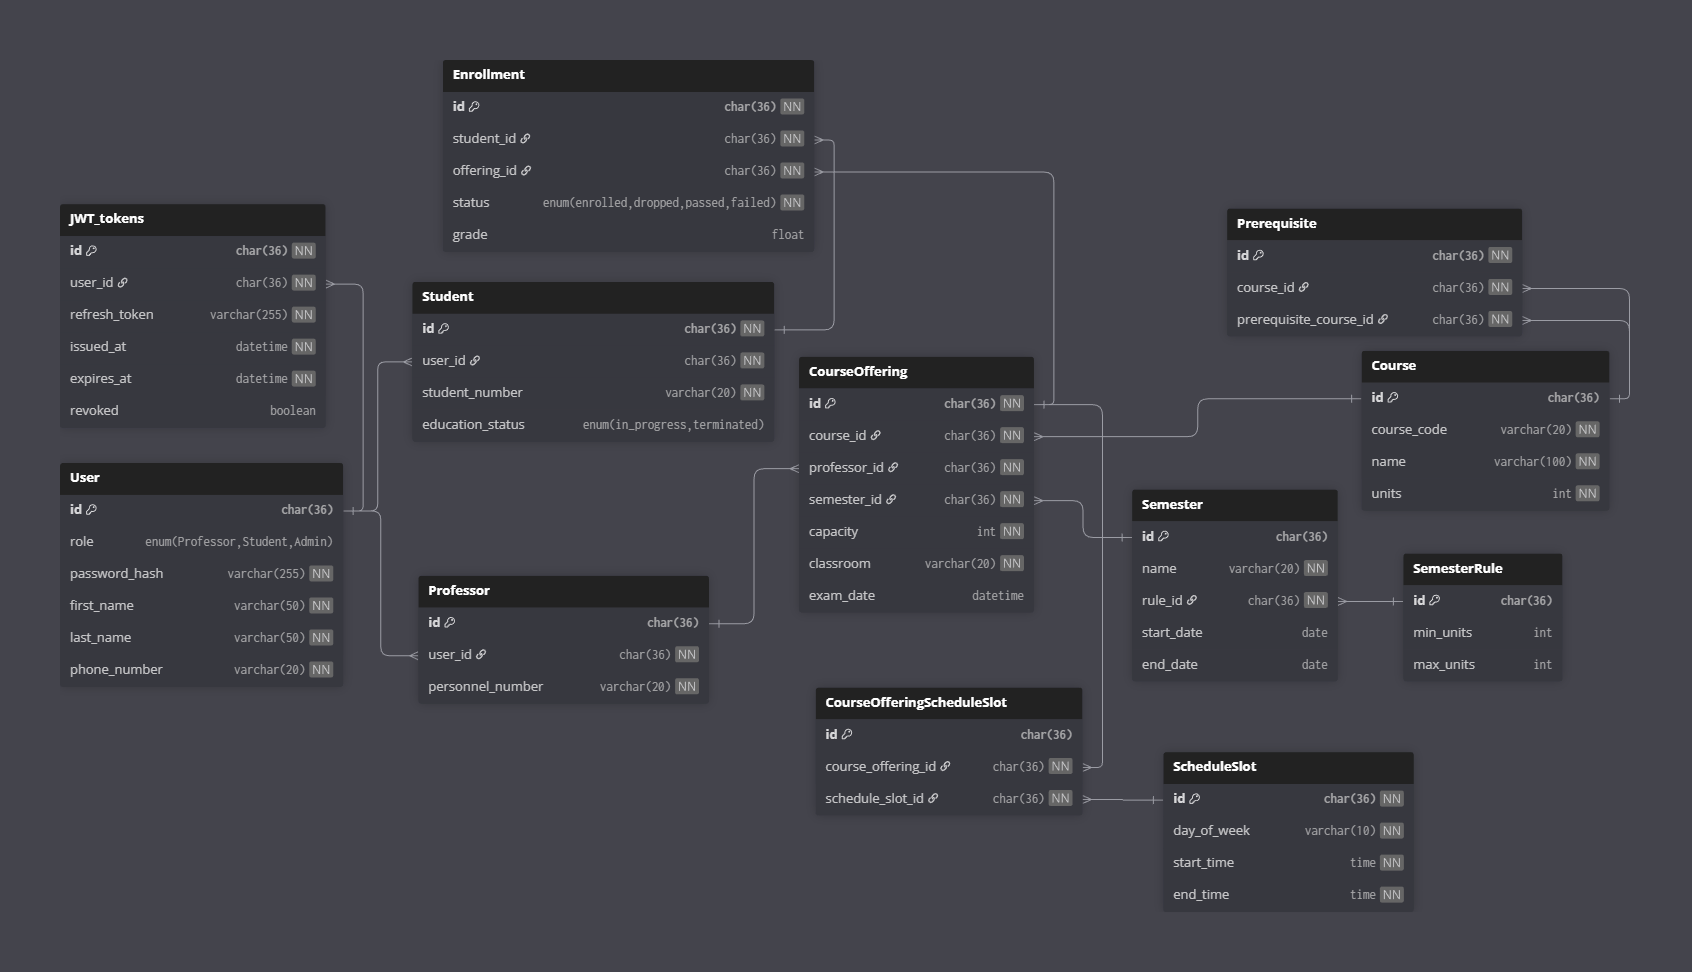
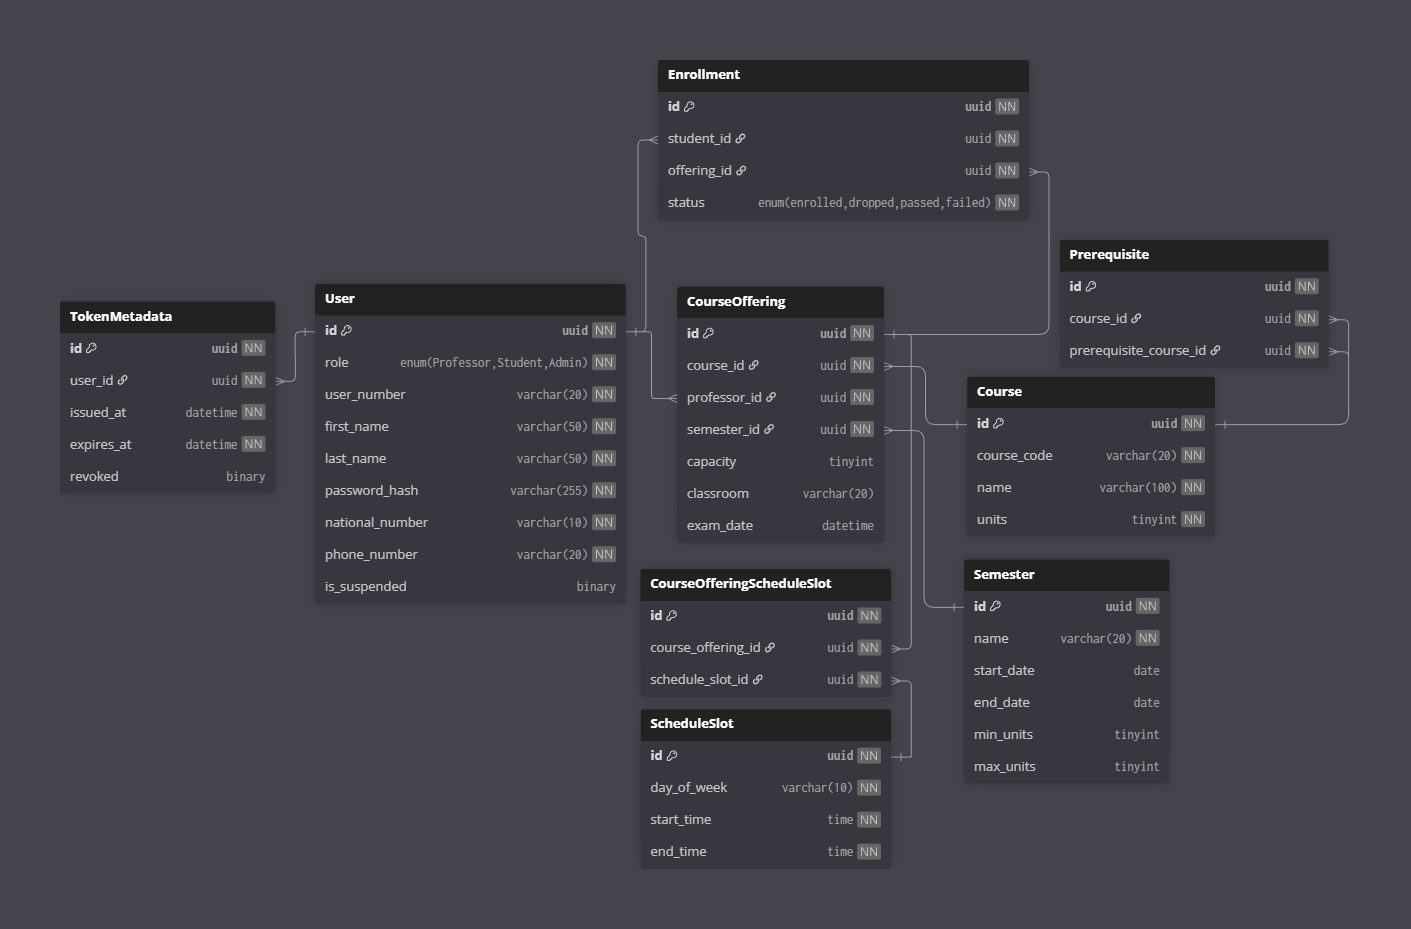
update data model and ERD to reflect revised database schema

diff --git a/docs/data-model.md b/docs/data-model.md
@@ -1,6 +1,6 @@
 # 📘 Data Model Documentation
 
-This document describes the database design for the Course Registration System
+This document describes the database design for the Course Registration System  
 (سیستم انتخاب واحد دانشگاه)
 
 The ERD diagram shows all core entities, attributes, and relationships.
@@ -19,197 +19,154 @@ The ERD diagram shows all core entities, attributes, and relationships.
 
 Represents all authenticated users in the system, including students, professors, and admins.
 
-| Field         | Type                                | Constraints |
-| ------------- | ----------------------------------- | ----------- |
-| id            | char(36)                            | PK          |
-| role          | enum('Professor','Student','Admin') | NOT NULL    |
-| password_hash | varchar(255)                        | NOT NULL    |
-| first_name    | varchar(50)                         | NOT NULL    |
-| last_name     | varchar(50)                         | NOT NULL    |
-| phone_number  | varchar(20)                         | NOT NULL    |
+| Field           | Type                                | Constraints      |
+| --------------- | ----------------------------------- | ---------------- |
+| id              | uuid                                | PK, NOT NULL     |
+| role            | enum('Professor','Student','Admin') | NOT NULL         |
+| user_number     | varchar(20)                         | NOT NULL         |
+| first_name      | varchar(50)                        | NOT NULL         |
+| last_name       | varchar(50)                        | NOT NULL         |
+| password_hash   | varchar(255)                       | NOT NULL         |
+| national_number | varchar(10)                        | NOT NULL         |
+| phone_number    | varchar(20)                        | NOT NULL         |
+| is_suspended    | binary                              | 1 = suspended    |
 
 **Relationships:**
 
-* One User → One Student
-* One User → One Professor
+- One User → Many TokenMetadata records  
+- One User → Many Enrollments  
+- One User (as Professor) → Many CourseOfferings  
 
 ---
 
-## 2. JWT_tokens
+## 2. TokenMetadata
 
-Stores refresh tokens for active sessions.
+Stores metadata about refresh tokens without storing the token value itself.
 
-| Field         | Type         | Constraints      |
-| ------------- | ------------ | ---------------- |
-| id            | char(36)     | PK               |
-| user_id       | char(36)     | FK → User.id     |
-| refresh_token | varchar(255) | UNIQUE, NOT NULL |
-| issued_at     | datetime     | NOT NULL         |
-| expires_at    | datetime     | NOT NULL         |
-| revoked       | boolean      | default: false   |
-
----
-
-## 3. Student
-
-Represents student-specific information.
-
-| Field            | Type        | Constraints      |
-| ---------------- | ----------- | ---------------- |
-| id               | char(36)    | PK               |
-| user_id          | char(36)    | FK → User.id     |
-| student_number   | varchar(20) | UNIQUE, NOT NULL |
-| education_status | boolean     | optional         |
-
-**Relationships:**
-
-* One Student → Many Enrollments
+| Field      | Type     | Constraints           |
+| ---------- | -------- | --------------------- |
+| id         | uuid     | PK, NOT NULL          |
+| user_id    | uuid     | FK → User.id          |
+| issued_at  | datetime | NOT NULL              |
+| expires_at | datetime | NOT NULL              |
+| revoked    | binary   | default: 0 (valid)    |
 
 ---
 
-## 4. Professor
-
-Represents instructors teaching course offerings.
-
-| Field            | Type        | Constraints      |
-| ---------------- | ----------- | ---------------- |
-| id               | char(36)    | PK               |
-| user_id          | char(36)    | FK → User.id     |
-| personnel_number | varchar(20) | UNIQUE, NOT NULL |
-
-**Relationships:**
-
-* One Professor → Many CourseOfferings
-
----
-
-## 5. Course
+## 3. Course
 
 Master definition of a course independent of the semester.
 
 | Field       | Type         | Constraints      |
 | ----------- | ------------ | ---------------- |
-| id          | char(36)     | PK               |
+| id          | uuid         | PK, NOT NULL     |
 | course_code | varchar(20)  | UNIQUE, NOT NULL |
 | name        | varchar(100) | NOT NULL         |
-| units       | int          | NOT NULL         |
+| units       | tinyint      | NOT NULL         |
 
 **Relationships:**
 
-* One Course → Many CourseOfferings
-* One Course → Many Prerequisites (self-reference)
+- One Course → Many CourseOfferings  
+- One Course → Many Prerequisites (self-reference)
 
 ---
 
-## 6. Semester
+## 4. Semester
 
 Represents an academic term (e.g., 1404-1).
 
-| Field      | Type        | Constraints          |
-| ---------- | ----------- | -------------------- |
-| id         | char(36)    | PK                   |
-| name       | varchar(20) | UNIQUE, NOT NULL     |
-| rule_id    | char(36)    | FK → SemesterRule.id |
-| start_date | date        | optional             |
-| end_date   | date        | optional             |
+| Field      | Type        | Constraints        |
+| ---------- | ----------- | ------------------ |
+| id         | uuid        | PK, NOT NULL       |
+| name       | varchar(20) | UNIQUE, NOT NULL   |
+| start_date | date        | optional           |
+| end_date   | date        | optional           |
+| min_units  | tinyint     | optional           |
+| max_units  | tinyint     | optional           |
 
 ---
 
-## 7. SemesterRule
+## 5. ScheduleSlot
 
-Defines minimum and maximum allowed credit units.
+Represents a time block during a week.
 
-| Field     | Type     | Constraints |
-| --------- | -------- | ----------- |
-| id        | char(36) | PK          |
-| min_units | int      | optional    |
-| max_units | int      | optional    |
-
----
-
-## 8. ScheduleSlot
-
-Represents a time block during the week.
-
-| Field       | Type        | Constraints |
-| ----------- | ----------- | ----------- |
-| id          | char(36)    | PK          |
-| day_of_week | varchar(10) | NOT NULL    |
-| start_time  | time        | NOT NULL    |
-| end_time    | time        | NOT NULL    |
+| Field       | Type        | Constraints      |
+| ----------- | ----------- | ---------------- |
+| id          | uuid        | PK, NOT NULL     |
+| day_of_week | varchar(10) | NOT NULL         |
+| start_time  | time        | NOT NULL         |
+| end_time    | time        | NOT NULL         |
 
 ---
 
-## 9. CourseOffering
+## 6. CourseOffering
 
 A course offered in a semester, taught by a professor.
 
-| Field        | Type        | Constraints       |
-| ------------ | ----------- | ----------------- |
-| id           | char(36)    | PK                |
-| course_id    | char(36)    | FK → Course.id    |
-| professor_id | char(36)    | FK → Professor.id |
-| semester_id  | char(36)    | FK → Semester.id  |
-| capacity     | int         | NOT NULL          |
-| classroom    | varchar(20) | NOT NULL          |
-| exam_date    | datetime    | optional          |
+| Field        | Type        | Constraints        |
+| ------------ | ----------- | ------------------ |
+| id           | uuid        | PK, NOT NULL       |
+| course_id    | uuid        | FK → Course.id     |
+| professor_id | uuid        | FK → User.id       |
+| semester_id  | uuid        | FK → Semester.id   |
+| capacity     | tinyint     | optional           |
+| classroom    | varchar(20) | optional           |
+| exam_date    | datetime    | optional           |
 
 **Relationships:**
 
-* One CourseOffering → Many Enrollments
-* One CourseOffering → Many ScheduleSlots (via CourseOfferingScheduleSlot)
+- One CourseOffering → Many Enrollments  
+- One CourseOffering → Many ScheduleSlots (via CourseOfferingScheduleSlot)
 
 ---
 
-## 10. CourseOfferingScheduleSlot
+## 7. CourseOfferingScheduleSlot
 
-Associates a course offering with one or more schedule slots.
+Defines the many-to-many relationship between CourseOffering and ScheduleSlot.
 
-| Field              | Type     | Constraints            |
-| ------------------ | -------- | ---------------------- |
-| id                 | char(36) | PK                     |
-| course_offering_id | char(36) | FK → CourseOffering.id |
-| schedule_slot_id   | char(36) | FK → ScheduleSlot.id   |
+| Field              | Type | Constraints                |
+| ------------------ | ---- | -------------------------- |
+| id                 | uuid | PK, NOT NULL               |
+| course_offering_id | uuid | FK → CourseOffering.id     |
+| schedule_slot_id   | uuid | FK → ScheduleSlot.id       |
 
 ---
 
-## 11. Prerequisite
+## 8. Prerequisite
 
 Maps a course to another course that must be completed first.
 
-| Field                  | Type     | Constraints    |
-| ---------------------- | -------- | -------------- |
-| id                     | char(36) | PK             |
-| course_id              | char(36) | FK → Course.id |
-| prerequisite_course_id | char(36) | FK → Course.id |
+| Field                  | Type | Constraints      |
+| ---------------------- | ---- | ---------------- |
+| id                     | uuid | PK, NOT NULL     |
+| course_id              | uuid | FK → Course.id   |
+| prerequisite_course_id | uuid | FK → Course.id   |
 
 ---
 
-## 12. Enrollment
+## 9. Enrollment
 
 Represents a student’s enrollment in a course offering.
 
-| Field       | Type                                         | Constraints            |
-| ----------- | -------------------------------------------- | ---------------------- |
-| id          | char(36)                                     | PK                     |
-| student_id  | char(36)                                     | FK → Student.id        |
-| offering_id | char(36)                                     | FK → CourseOffering.id |
-| status      | enum('enrolled','dropped','passed','failed') | NOT NULL               |
-| grade       | float                                        | optional               |
+| Field       | Type                                         | Constraints                |
+| ----------- | -------------------------------------------- | -------------------------- |
+| id          | uuid                                         | PK, NOT NULL               |
+| student_id  | uuid                                         | FK → User.id               |
+| offering_id | uuid                                         | FK → CourseOffering.id     |
+| status      | enum('enrolled','dropped','passed','failed') | NOT NULL                   |
 
 ---
 
 # 🔗 Relationship Summary
 
-* **User** 1—1 **Student**
-* **User** 1—1 **Professor**
-* **Student** 1—∞ **Enrollment**
-* **Course** 1—∞ **CourseOffering**
-* **CourseOffering** 1—∞ **Enrollment**
-* **Professor** 1—∞ **CourseOffering**
-* **Semester** 1—∞ **CourseOffering**
-* **Course** 1—∞ **Prerequisite** (self-reference)
-* **CourseOffering** 1—∞ **CourseOfferingScheduleSlot**
-* **ScheduleSlot** 1—∞ **CourseOfferingScheduleSlot**
+- **User** 1—∞ **TokenMetadata**
+- **User** 1—∞ **Enrollment**
+- **User (Professor)** 1—∞ **CourseOffering**
+- **Course** 1—∞ **CourseOffering**
+- **Course** 1—∞ **Prerequisite** (self-reference)
+- **Semester** 1—∞ **CourseOffering**
+- **CourseOffering** 1—∞ **Enrollment**
+- **CourseOffering** 1—∞ **CourseOfferingScheduleSlot**
+- **ScheduleSlot** 1—∞ **CourseOfferingScheduleSlot**
 
 ---
